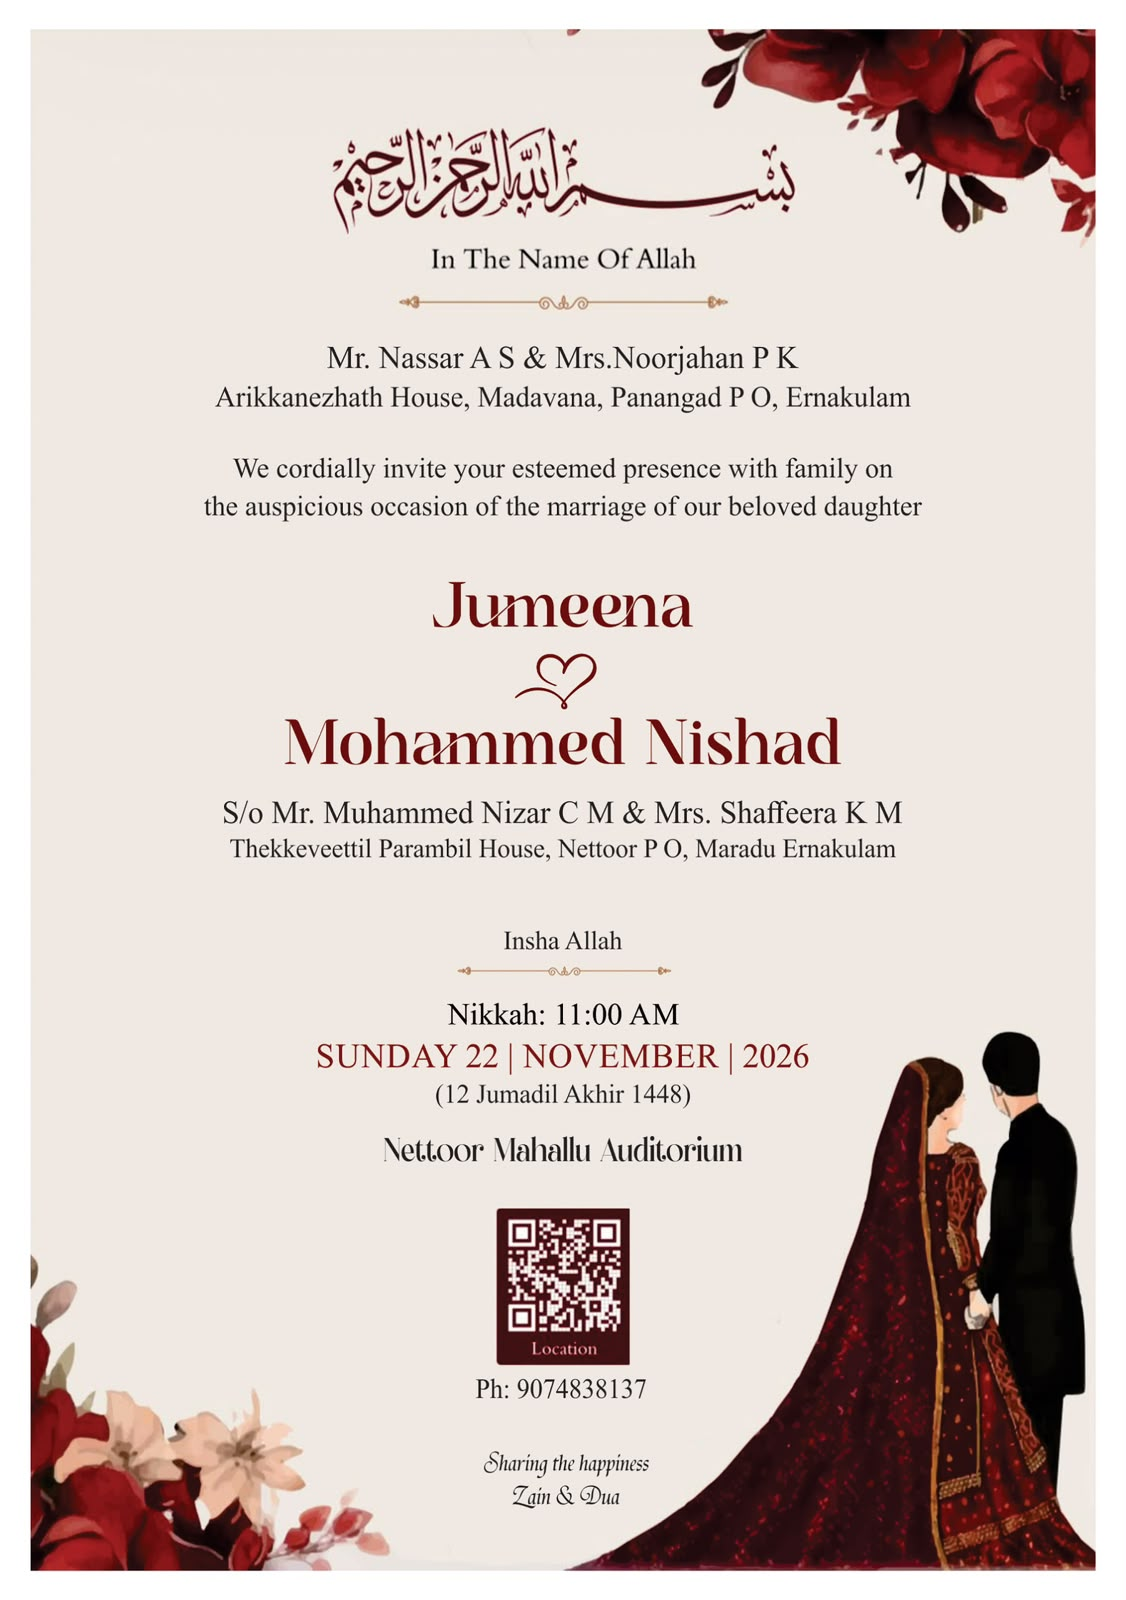
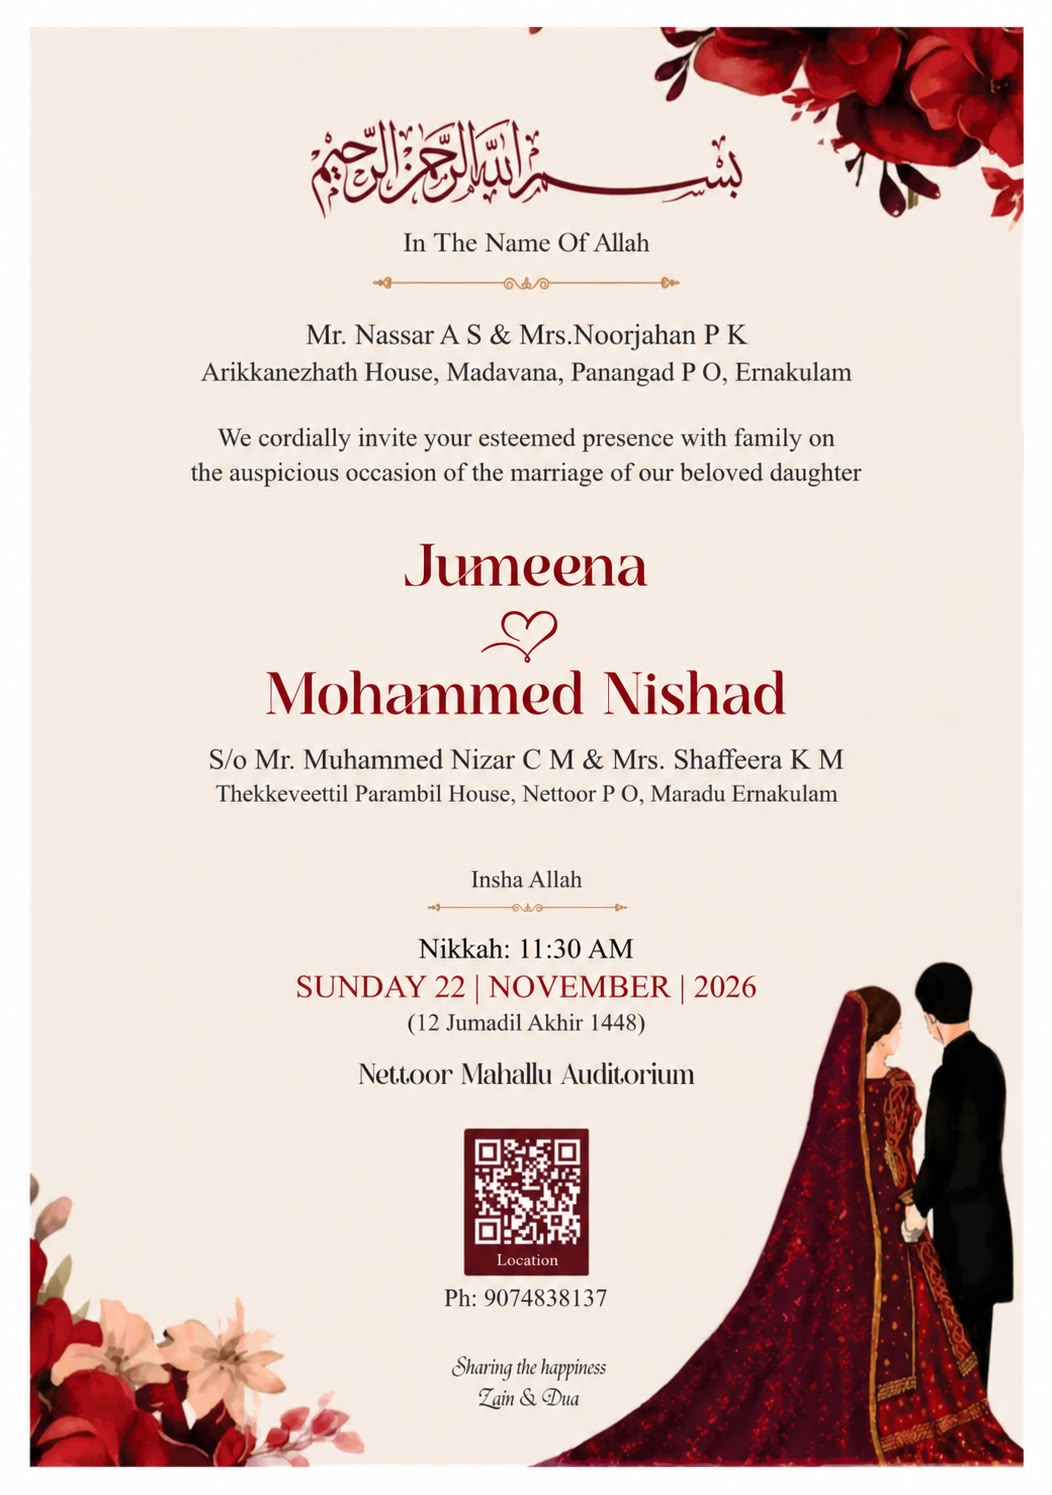
image and time updated

diff --git a/src/data/weddingData.js b/src/data/weddingData.js
@@ -51,11 +51,11 @@ export const weddingData = {
 
   schedule: {
     // Configurable countdown target date: Nov 20, 2026
-    countdownTarget: "2026-11-22T11:00:00",
+    countdownTarget: "2026-11-22T11:30:00",
     weddingDateDisplay: "November 22, 2026",
     mainMarriageDate: "Sunday, November 22, 2026",
     nikkahDate: "Sunday, November 22, 2026",
-    nikkahTime: "11:00 AM",
+    nikkahTime: "11:30 AM",
     hijriDate: "12 Jumadil Akhir 1448",
     locationDisplay: "Nettoor Mahallu Auditorium, Maradu, Ernakulam",
   },
@@ -142,7 +142,7 @@ export const weddingData = {
       name: "The Sacred Nikkah Ceremony",
       arabicName: "عقد النكاح المبارك",
       date: "Sunday, November 22, 2026",
-      time: "11:00 AM (12 Jumadil Akhir 1448)",
+      time: "11:30 AM (12 Jumadil Akhir 1448)",
       venueName: "Nettoor Mahallu Auditorium",
       address: "Nettoor-Madavana Road, Nettoor, Maradu, Ernakulam",
       dressCode: "Regal Traditional Ivory, Champagne & Gold",
@@ -187,7 +187,7 @@ export const weddingData = {
       id: 4,
       title: "The Auspicious Invitation Card",
       caption: "The official wedding invitation card blessed in the name of Allah.",
-      image: "/images/invitation-card.jpg",
+      image: "/images/invitation-card.jpeg",
       category: "Keepsake",
       aspect: "portrait",
       objectPosition: "center top",
@@ -211,7 +211,7 @@ export const weddingData = {
   ],
 
   invitationCard: {
-    cardImage: "/images/invitation-card.jpg",
+    cardImage: "/images/invitation-card.jpeg",
     bismillahArabic: "بِسْمِ ٱللَّٰهِ ٱلرَّحْمَٰنِ ٱلرَّحِيمِ",
     bismillahEnglish: "In The Name Of Allah",
     inshaAllah: "Insha Allah",
@@ -223,7 +223,7 @@ export const weddingData = {
     groomName: "Nishad",
     parentsGroom: "Mr. Muhammed Nizar C M & Mrs. Shaffeera K M",
     parentsGroomHouse: "Thekkeveettil Parambil House, Nettoor P O, Maradu, Ernakulam",
-    nikkahTime: "Nikkah: 11:00 AM",
+    nikkahTime: "Nikkah: 11:30 AM",
     ceremonyDate: "SUNDAY 22 | NOVEMBER | 2026",
     hijriDate: "(12 Jumadil Akhir 1448)",
     marriageDateNote: "Marriage Celebrations commence Sunday, November 22, 2026",

diff --git a/src/components/InvitationCardSection.jsx b/src/components/InvitationCardSection.jsx
@@ -159,7 +159,7 @@ export default function InvitationCardSection({ weddingData }) {
               title="Click to view full size"
             >
               <img
-                src={invitationCard.cardImage || "/images/invitation-card.jpg"}
+                src={invitationCard.cardImage || "/images/invitation-card.jpeg"}
                 alt={`${couple.namesCombined} Wedding Invitation Card`}
                 style={{
                   width: "100%",
@@ -525,7 +525,7 @@ export default function InvitationCardSection({ weddingData }) {
 
           {/* Download Original Card */}
           <a
-            href={invitationCard.cardImage || "/images/invitation-card.jpg"}
+            href={invitationCard.cardImage || "/images/invitation-card.jpeg"}
             download="Nishad_Jumeena_Wedding_Invitation.jpg"
             className="btn-secondary"
             style={{ fontSize: "0.85rem", padding: "0.75rem 1.3rem" }}
@@ -620,7 +620,7 @@ export default function InvitationCardSection({ weddingData }) {
               onClick={(e) => e.stopPropagation()}
             >
               <img
-                src={invitationCard.cardImage || "/images/invitation-card.jpg"}
+                src={invitationCard.cardImage || "/images/invitation-card.jpeg"}
                 alt="Full Wedding Invitation Card"
                 style={{
                   width: "100%",
